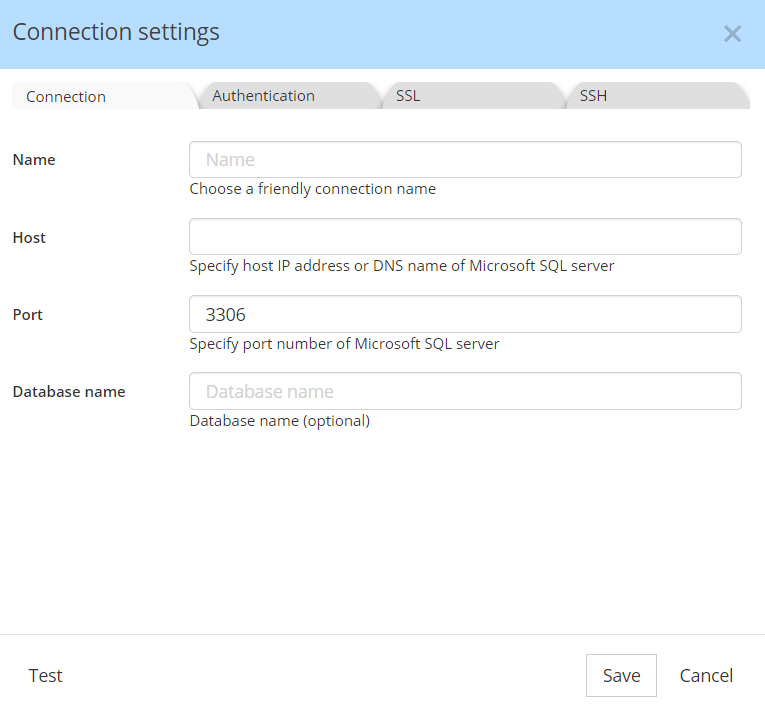
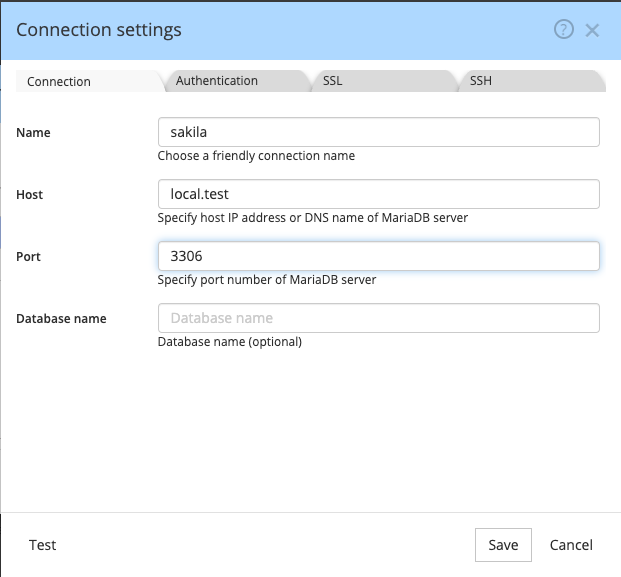
add doc for MySQL

diff --git a/Studio/MySQL.md b/Studio/MySQL.md
@@ -1,18 +1,21 @@
 # MySQL
 
-MariaDB is a community-developed, commercially supported fork of the MySQL relational database management system, intended to remain free and open-source software.&nbsp; In addition to high compatibility with MySQL, it provides support for multiple different storage engines designed to efficiently manage data files, the data, and the index caches.
+MySQL is one of the most widely used relational database management system (RDBMS) out there.&nbsp;  MsSQL is free and open-source software under the terms of the GNU General Public License, and is also commercially supported. 
 
 &nbsp;
 
-With version 10, MariaDB introduced JSON functions to combine NoSQL and relational concepts in the same database. Users can combine classic relational columns with columns that contain documents formatted as JSON text in the same table, parse and import JSON documents in relational structures, or format relational data to JSON text.
+With version 10, MySQL introduced JSON functions to combine NoSQL and relational concepts in the same database. Users can combine classic relational columns with columns that contain documents formatted as JSON text in the same table, parse and import JSON documents in relational structures, or format relational data to JSON text.
+
+MySQL supports native JSON data types and functions to combine NoSQL and relational concepts in the same database since version 5.7.8. The native JSON data types allows you to store JSON documents more efficiently than the JSON text format in the previous versions.
+MySQL stores JSON documents in an internal format that allows quick read access to document elements. The JSON binary format is structured in the way that permits the server to search for values within the JSON document directly by key or array index, which is very fast.
 
 &nbsp;
 
-To perform data modeling for MariaDB with Hackolade, you must first download the MariaDB [plugin](<https://hackolade.com/help/DownloadadditionalDBtargetplugin.html> "target=\"\_blank\"").  
+To perform data modeling for MySQL with Hackolade, you must first download the MySQL [plugin](<https://hackolade.com/help/DownloadadditionalDBtargetplugin.html> "target=\"\_blank\"").  
 
 &nbsp;
 
-Hackolade was specially adapted to support the data modeling of MariaDB, including databases, tables and views, indexes and constraints, plus the generation of DDL Create Table syntax.&nbsp;
+Hackolade was specially adapted to support the data modeling of MySQL, including databases, tables and views, indexes and constraints, plus the generation of DDL Create Table syntax.&nbsp;
 
 &nbsp;
 
@@ -24,49 +27,49 @@ The data model in the picture below results from the data modeling of the [Sakil
 
 &nbsp;
 
-![MariaDB workspace](<lib/MariaDB%20workspace.png>)
+![MySQL workspace](<lib/MySQL%20workspace.png>)
 
 &nbsp;
 
 ## Databases
 
-MariaDB tables are contained within database object containers.&nbsp; The database also works as a security boundary, where you can limit database user permissions to be on a specific schema level only. &nbsp;
+MySQL tables are contained within database object containers.&nbsp; The database also works as a security boundary, where you can limit database user permissions to be on a specific schema level only. &nbsp;
 
 &nbsp;
 
 ## Database engines
 
-Storage engines handle data at the physical level. Storage engines are designed to efficiently manage data files, the data, and the index caches.
+Storage engine, like ![InnoDB](<https://dev.mysql.com/doc/refman/8.0/en/innodb-introduction.html>), handle data at the physical level. Storage engines are designed to efficiently manage data files, the data, and the index caches.
 
 &nbsp;
 
 ## Tables
 
-All data in MariaDB is stored in database tables, logically structured as collections of columns and rows, optionally with single-column or multi-column constraints. &nbsp;
+All data in MySQL is stored in database tables, logically structured as collections of columns and rows, optionally with single-column or multi-column constraints. &nbsp;
 
 &nbsp;
 
 ## Unique, Primary, and Foreign Keys, plus Not Null, Check and Default constraints
 
-Constraints in MariaBD are predefined rules and restrictions that are enforced in a single column or multiple columns, regarding the values allowed in the columns, to maintain the integrity, accuracy, and reliability of that column’s data. Constraints in MariaDB can be defined at the column level, where it is specified as part of the column definition and will be applied to that column only, or declared independently at the table level. 
+Constraints in MySQL are predefined rules and restrictions that are enforced in a single column or multiple columns, regarding the values allowed in the columns, to maintain the integrity, accuracy, and reliability of that column’s data. Constraints in MySQL can be defined at the column level, where it is specified as part of the column definition and will be applied to that column only, or declared independently at the table level. 
 
 &nbsp;
 
-There are six main constraints that are commonly used in MariaDB: NOT NULL, UNIQUE, PRIMARY, FOREIGN, CHECK, and DEFAULT. &nbsp;
+There are six main constraints that are commonly used in MySQL: NOT NULL, UNIQUE, PRIMARY, FOREIGN, CHECK, and DEFAULT. &nbsp;
 
 ## Indexes
 
-The goal of an index on a database table then is to reduce I/O.&nbsp; Properly indexing a MariaDB table is key to providing consistent, optimal performance. There are many things to consider when designing an index structure, but this goes beyond the scope of this document. &nbsp;
+The goal of an index on a database table then is to reduce I/O.&nbsp; Properly indexing a MySQL table is key to providing consistent, optimal performance. There are many things to consider when designing an index structure, but this goes beyond the scope of this document. &nbsp;
 
 &nbsp;
 
-Hackolade supports the most common types of MariaDB indexes, but not all of them yet. &nbsp;
+Hackolade supports the most common types of MySQL indexes, but not all of them yet. &nbsp;
 
 &nbsp;
 
 ## Data types
 
-In MariaDB, each column, local variable, expression, and parameter has a related [data type](<https://mariadb.com/kb/en/data-types/> "target=\"\_blank\""). A data type is an attribute that specifies the type of data that the object can hold: integer data, character data, monetary data, date and time data, binary strings, and so on.
+In MySQL, each column, local variable, expression, and parameter has a related [data type](<https://MySQL.com/kb/en/data-types/> "target=\"\_blank\""). A data type is an attribute that specifies the type of data that the object can hold: integer data, character data, monetary data, date and time data, binary strings, and so on.
 
 &nbsp;
 
@@ -74,7 +77,7 @@ Additionally, in LONGTEXT columns, Hackolade supports the data modeling of JSON 
 
 &nbsp;
 
-User-defined data types are based on the data types in MariaDB. User-defined data types can be used when several tables store the same domain of values in a column and must ensure that these columns have exactly the same data type, length, and NULLability.
+User-defined data types are based on the data types in MySQL. User-defined data types can be used when several tables store the same domain of values in a column and must ensure that these columns have exactly the same data type, length, and NULLability.
 
 &nbsp;
 
@@ -86,7 +89,7 @@ A view is a virtual table whose contents are defined by a query. Like a table, a
 
 ## Functions and Procedures
 
-A function takes any number of arguments and returns a value from the function body. The function body can be any valid SQL expression as you would use, for example, in any select expression.A Stored Procedure is a routine invoked with a [CALL](<https://mariadb.com/kb/en/call/> "target=\"\_blank\"") statement. It may have input parameters, output parameters and parameters that are both input parameters and output parameters.
+A function takes any number of arguments and returns a value from the function body. The function body can be any valid SQL expression as you would use, for example, in any select expression.A Stored Procedure is a routine invoked with a [CALL](<https://MySQL.com/kb/en/call/> "target=\"\_blank\"") statement. It may have input parameters, output parameters and parameters that are both input parameters and output parameters.
 
 &nbsp;
 
@@ -96,7 +99,7 @@ Hackolade dynamically generates the DDL script to create databases, tables, colu
 
 &nbsp;
 
-![MariaDB DDL Forward-Engineering](<lib/MariaDB%20DDL%20Forward-Engineering.png>)
+![MySQL DDL Forward-Engineering](<lib/MySQL%20DDL%20Forward-Engineering.png>)
 
 &nbsp;
 
@@ -106,13 +109,12 @@ If you store JSON within LONGTEXT columns, Hackolade allows for the schema desig
 
 ## Reverse-Engineering
 
-The MariaDB engine can hosted on-premises, or on virtualized machines in a private or public cloud Details on how to connect Hackolade to MariaDB can be found on [this page](<ConnecttoaMariaDBinstance.md>).
+The MySQL database can be hosted on-premises, or on virtualized machines in a private or public cloud Details on how to connect Hackolade to MySQL can be found on [this page](<ConnecttoaMySQLinstance.md>).
 
 &nbsp;
 
-The Hackolade process for reverse-engineering of MariaDB databases includes the execution of statements to discover databases, tables, columns and their types, indexes and constraints.&nbsp; If JSON is detected in LONGTEXT columns, Hackolade performs statistical sampling of records followed by probabilistic inference of the JSON document schema.
+The Hackolade process for reverse-engineering of MySQL databases includes the execution of statements to discover databases, tables, columns and their types, indexes and constraints.&nbsp; If JSON is detected in LONGTEXT columns, Hackolade performs statistical sampling of records followed by probabilistic inference of the JSON document schema.
 
 &nbsp;
 
-For more information on MariaDB in general, please consult the [website](<https://mariadb.org/> "target=\"\_blank\"") and [documentation](<https://mariadb.org/documentation/> "target=\"\_blank\""). &nbsp;
-
+For more information on MySQL in general, please consult the [website](<https://MySQL.org/> "target=\"\_blank\"") and [documentation](<https://MySQL.org/documentation/> "target=\"\_blank\""). &nbsp;

diff --git a/Studio/ConnecttoaMySQLinstance.md b/Studio/ConnecttoaMySQLinstance.md
@@ -1,0 +1,20 @@
+# Connect to a MySQL instance
+
+The MySQL instance can be hosted on-premises, or on virtualized machines in a private or public cloud. &nbsp;
+
+&nbsp;
+
+In the Hackolade connection settings dialog, give a meaningful name to the connection, then set the the host and port, and an optional database name if you wish to limit the scope of the discovery.
+
+&nbsp;
+
+![MySQL connection settings](<lib/MySQL%20connection%20settings.png>)
+
+If required, enter your username and password
+
+&nbsp;
+
+![Image](<lib/MySQL%20connection%20settings%20auth.png>)
+
+&nbsp;
+
